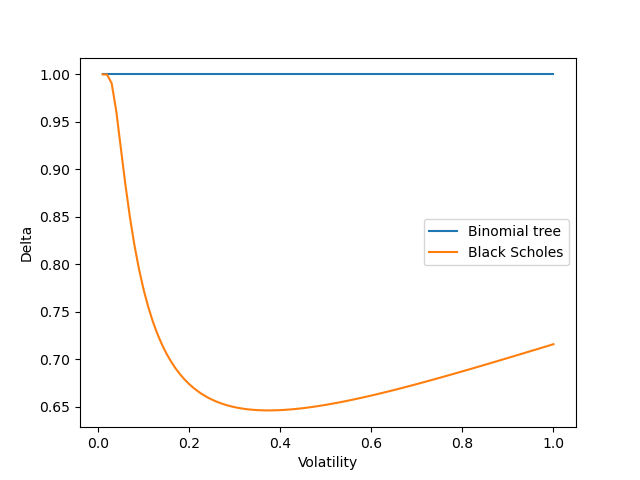
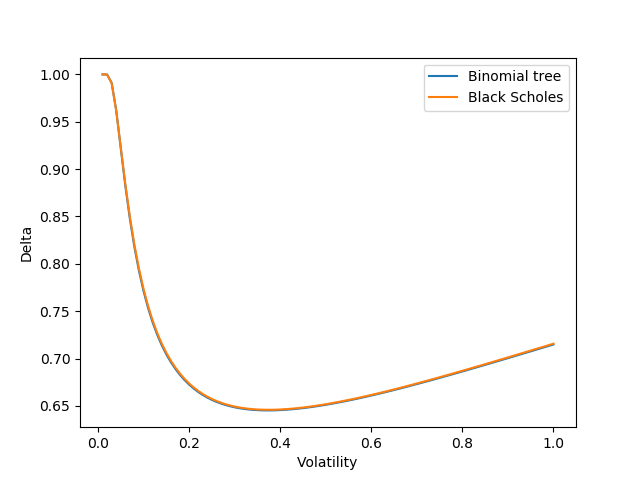
2.4 global variable fix

diff --git a/ass_1.py b/ass_1.py
@@ -27,18 +27,21 @@ def valueOptionMatrix(tree, T, r, K, vol, N):
     columns = tree.shape[1]
     rows = tree.shape[0]
 
+    # create a new matrix to prevent problems with global variables
+    matrix = np.zeros_like(tree)
+
     for c in np.arange(columns):
         S = tree[rows - 1, c]
-        tree[rows - 1, c] = max(S - K, 0)
+        matrix[rows - 1, c] = max(S - K, 0)
 
 
     for i in np.arange(rows - 1)[::-1]:
         for j in np.arange(i + 1):
-            down = tree[i + 1, j]
-            up = tree[i + 1, j + 1]
-            tree[i, j] = np.exp(-r * dt) * (p * up + (1 - p) * down)
+            down = matrix[i + 1, j]
+            up = matrix[i + 1, j + 1]
+            matrix[i, j] = np.exp(-r * dt) * (p * up + (1 - p) * down)
 
-    return tree
+    return matrix
 
 def valueOptionMatrixAmerican(tree, T, r, K, vol, N):
     dt = T / N
